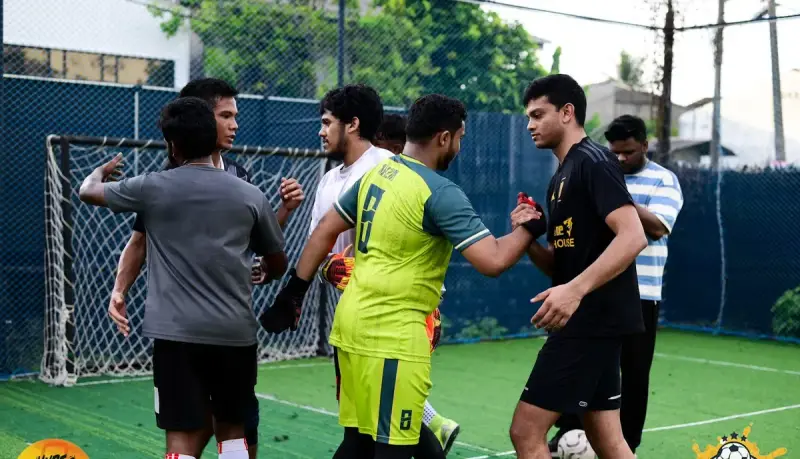
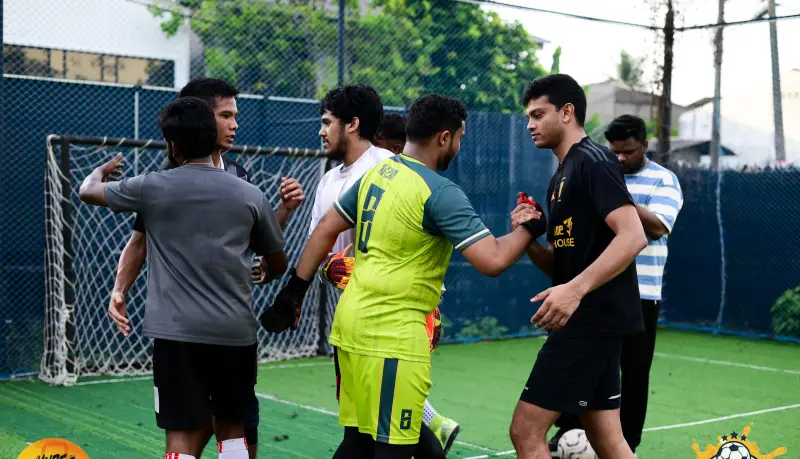
Use the 4000px original for the Community panel photo
The 1200px copy was cropped to 4:5, leaving about 640px of real width, so it
looked soft. Re-cut from the Drive original (szn-4, 4000x2670) at 2400px with
the same bottom 14% crop, plus 800 and 1200 copies; sizes now reflects the
cropped width.

Claude-Session: https://claude.ai/code/session_01Fbg1gi57Wj1ANcKbV4xyb4

diff --git a/components/acts/CommunityTeaser.tsx b/components/acts/CommunityTeaser.tsx
@@ -42,7 +42,7 @@ export function CommunityTeaser() {
         <img
           src="/home/ring/szn4-greeting.webp"
           srcSet={phoneSrcSet("/home/ring/szn4-greeting.webp")}
-          sizes="(min-width: 768px) 40vw, 100vw"
+          sizes="(min-width: 768px) 65vw, 100vw"
           alt="Players greeting each other on the pitch at a 4 x 4 Series match"
           width={1200}
           height={900}
